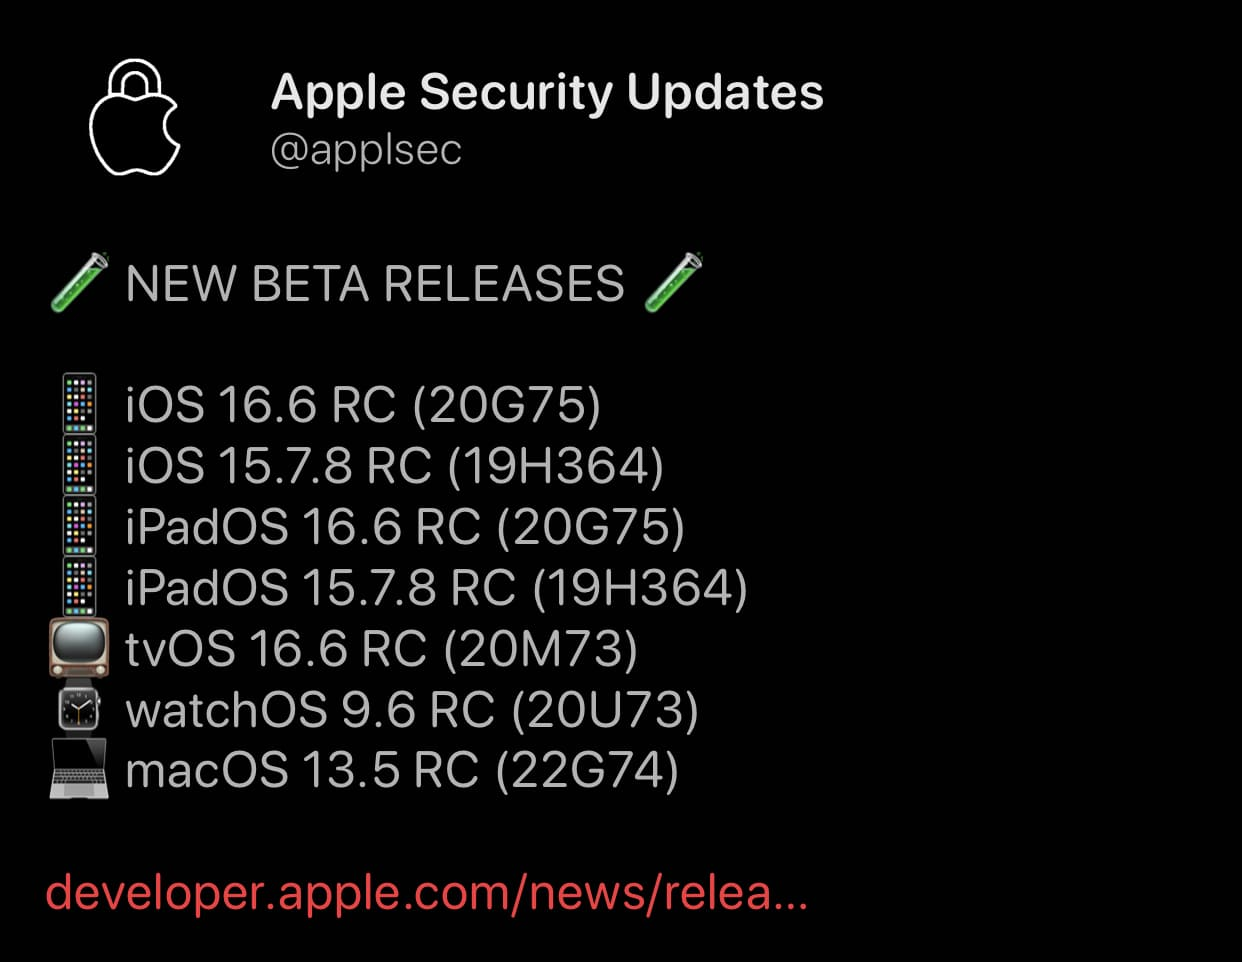
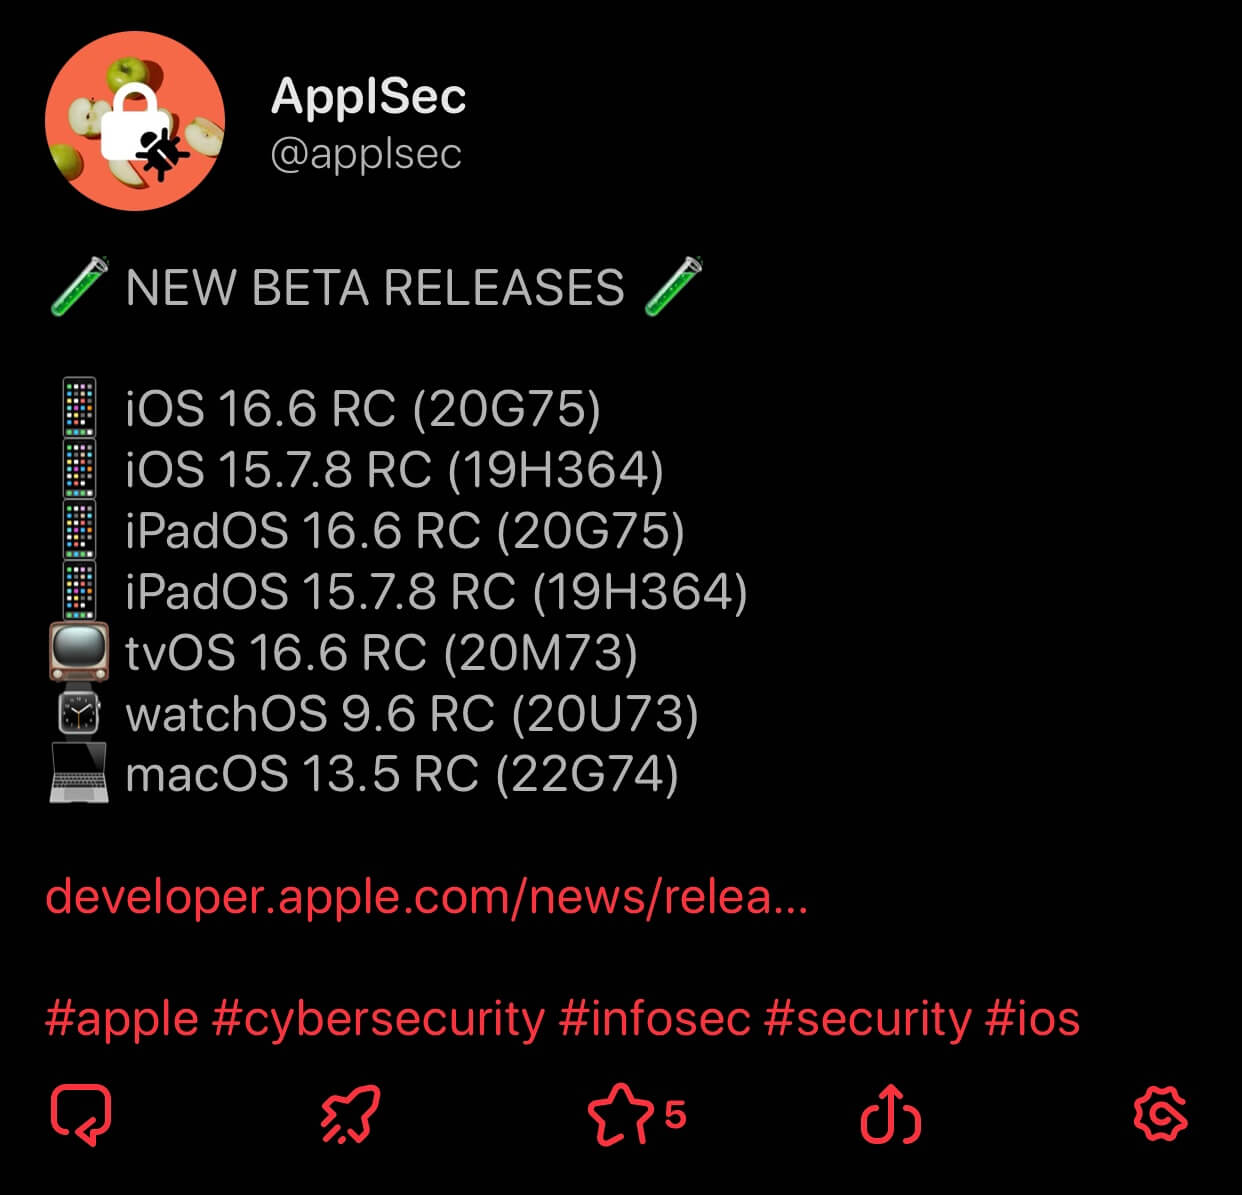
style: change profile name and pic, respond to Apple copyright notice
Apple this week sent a copyright notice to my Mastodon instance.
Leading to my Mastodon account getting suspended.

I talked with Apple lawyers and my Mastodon admin
(@jerry@infosec.exchange). After several emails, it was clarified I
have to change my profile picture (previously the Apple logo), and remove
"Apple" word from my display name on social media.

My Mastodon account was then un-suspended, so I got time to do the
changes.

This commit replaces my logo (profile pic) with the new one and updates
all post screenshots.

diff --git a/README.md b/README.md
@@ -50,6 +50,8 @@ The bot is often updated as new ideas appear and to keep up with any changes to 
 
 <br>
 
+<hr>
+
 _Not affiliated with Apple Inc._
 
-_Apple, Apple logo, iCloud, watchOS, tvOS and macOS are trademarks of Apple Inc., registered in the U.S. and other countries and regions._
+_Apple, iCloud, watchOS, tvOS and macOS are trademarks of Apple Inc., registered in the U.S. and other countries and regions._
